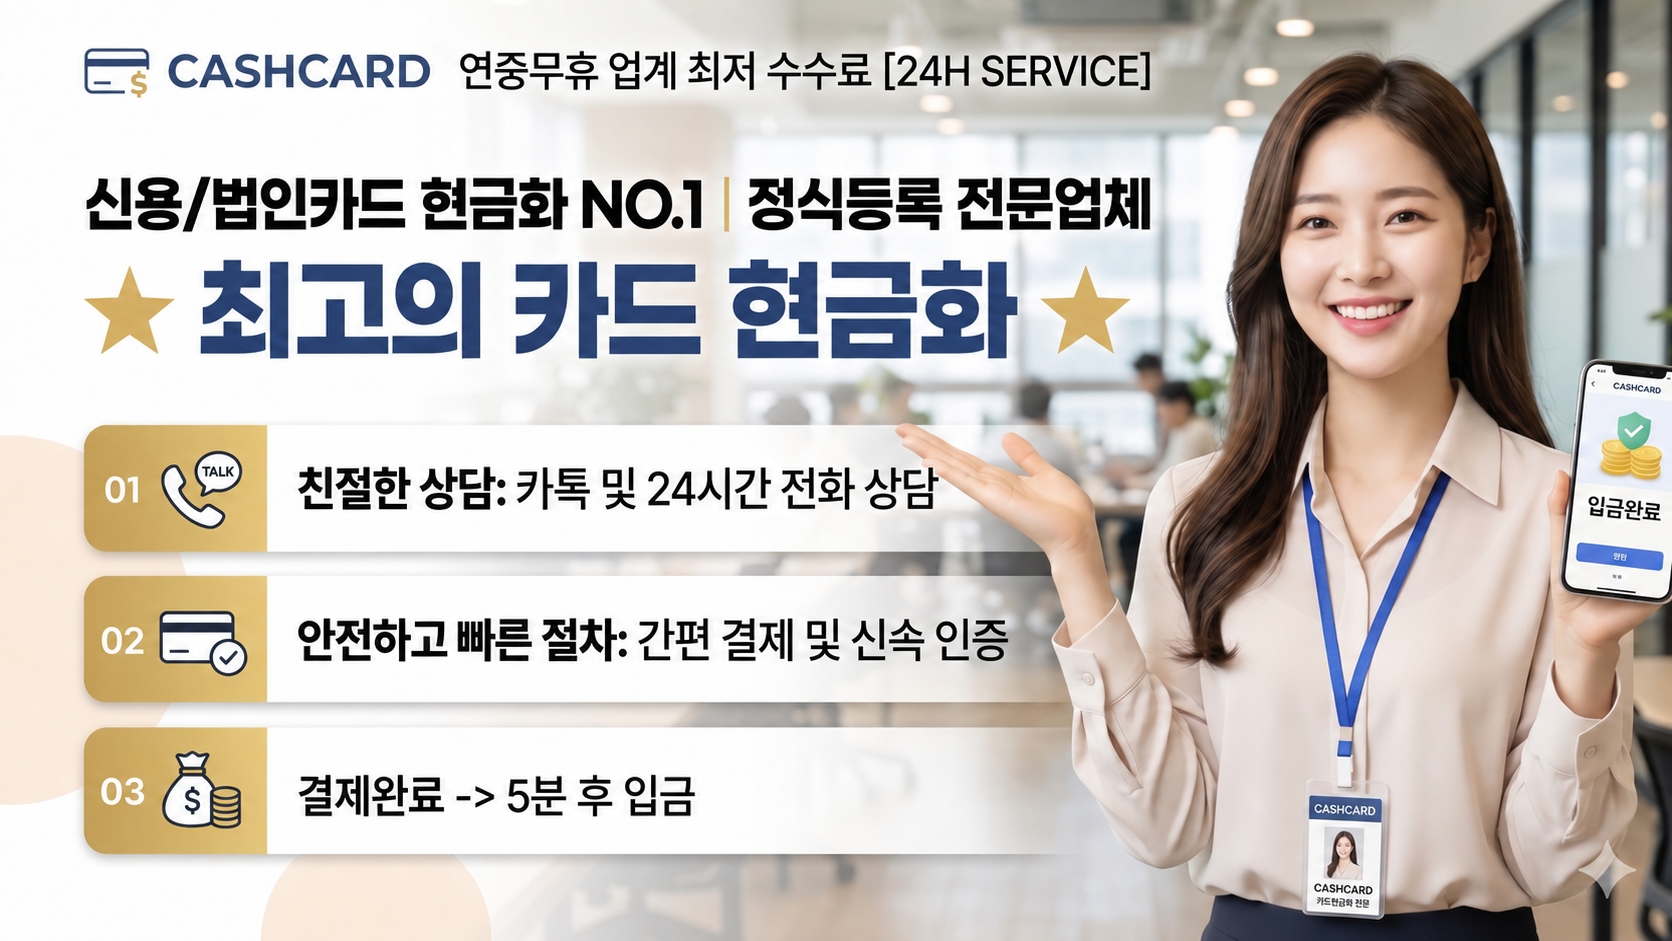
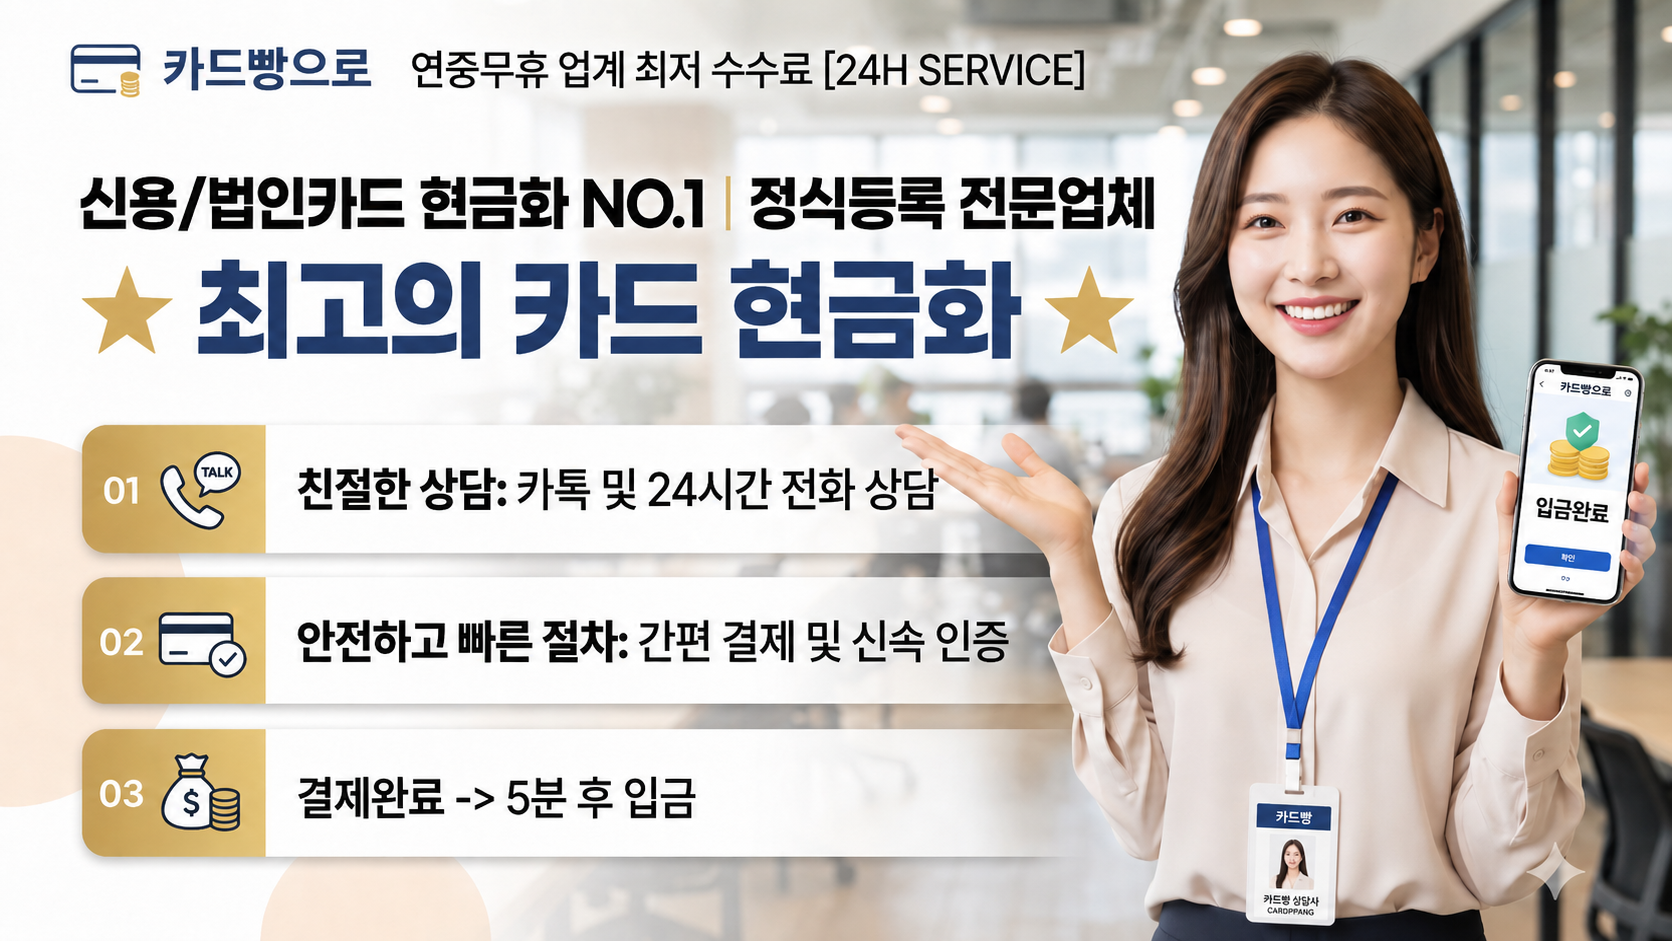
DFDFD

diff --git a/src/App.tsx b/src/App.tsx
@@ -285,11 +285,11 @@ function App() {
   return (
     <main className="cashcard-page">
       <section className="hero-section" aria-labelledby="page-title">
-        <h1 id="page-title">캐쉬카드 상담 예약</h1>
+        <h1 id="page-title">카드빵 상담 예약</h1>
         <img
           className="hero-image"
           src={serviceImage}
-          alt="캐쉬카드 신용카드 법인카드 현금화 상담 서비스"
+          alt="카드빵 신용카드 법인카드 현금화 상담 서비스"
         />
       </section>
 
@@ -299,7 +299,7 @@ function App() {
         aria-labelledby="trust-title"
       >
         <div className="trust-inner">
-          <h2 id="trust-title">많은 고객들이 캐쉬카드와 함께합니다</h2>
+          <h2 id="trust-title">많은 고객들이 카드빵과 함께합니다</h2>
           <div className="stat-grid">
             {statItems.map((item, index) => (
               <article className="stat-card" key={item.label}>
@@ -383,7 +383,7 @@ function App() {
             </fieldset>
 
             <label>
-              신용한도 금액
+              신청하실 금액
               <input
                 required
                 value={form.creditLimit}

diff --git a/index.html b/index.html
@@ -4,7 +4,7 @@
     <meta charset="UTF-8" />
     <link rel="icon" type="image/svg+xml" href="/favicon.svg" />
     <meta name="viewport" content="width=device-width, initial-scale=1.0" />
-    <title>cashcard</title>
+    <title>카드빵</title>
     <!-- Meta Pixel Code -->
     <script>
       !function(f,b,e,v,n,t,s)